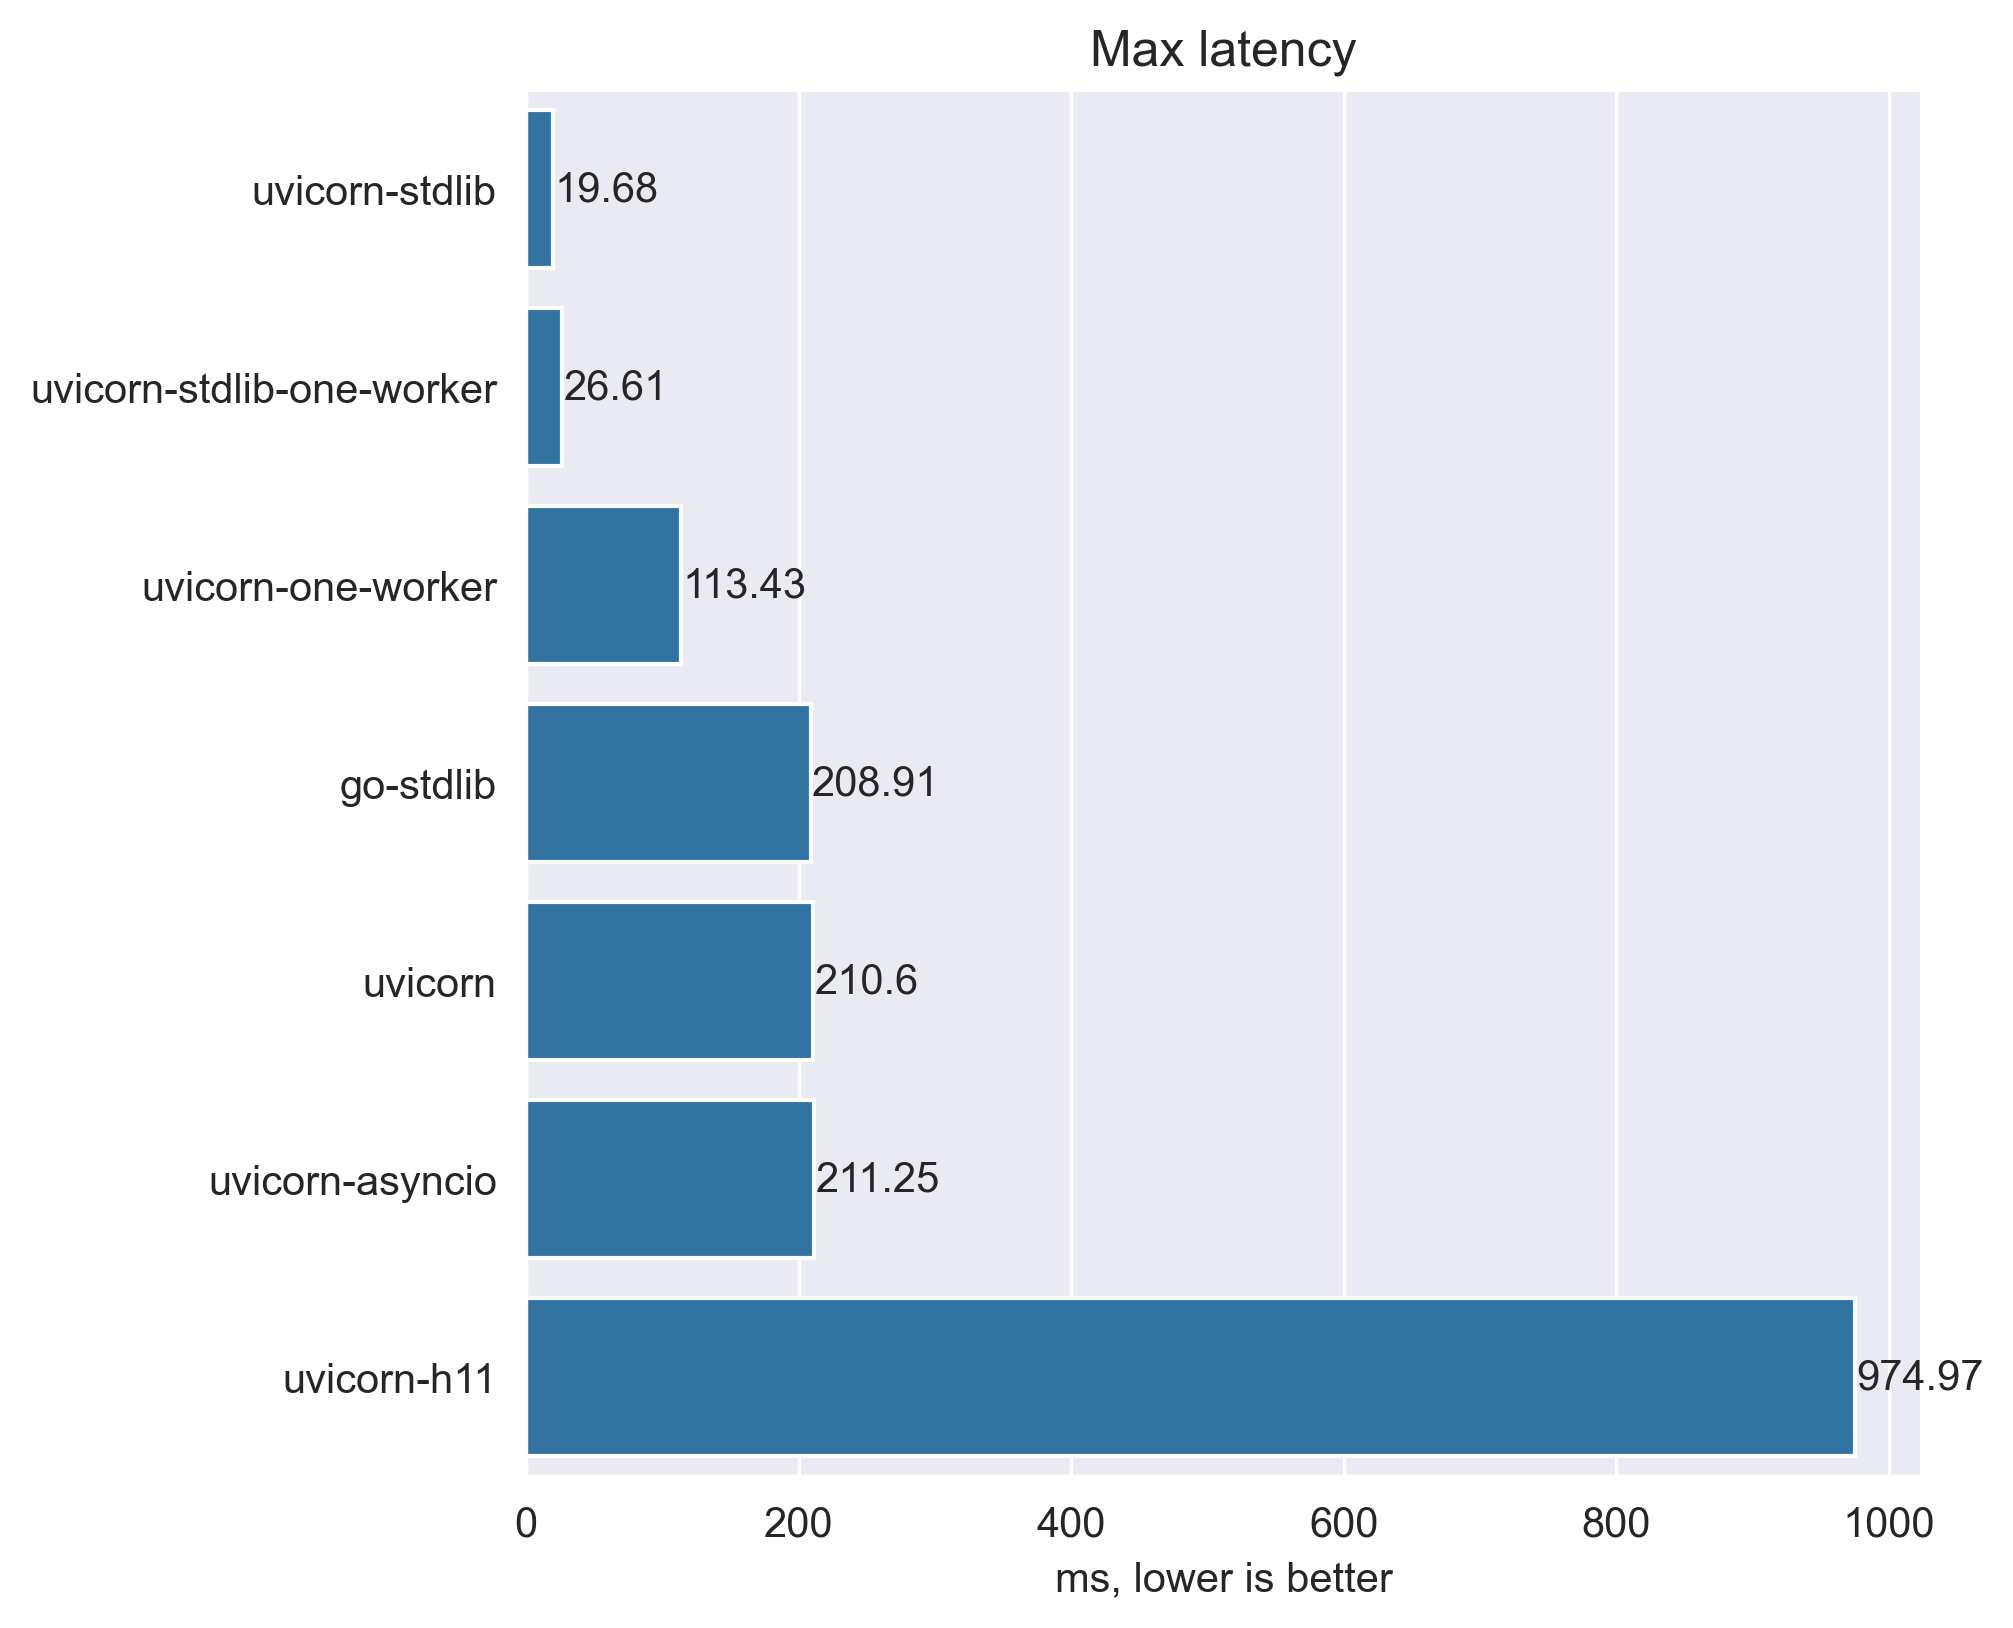
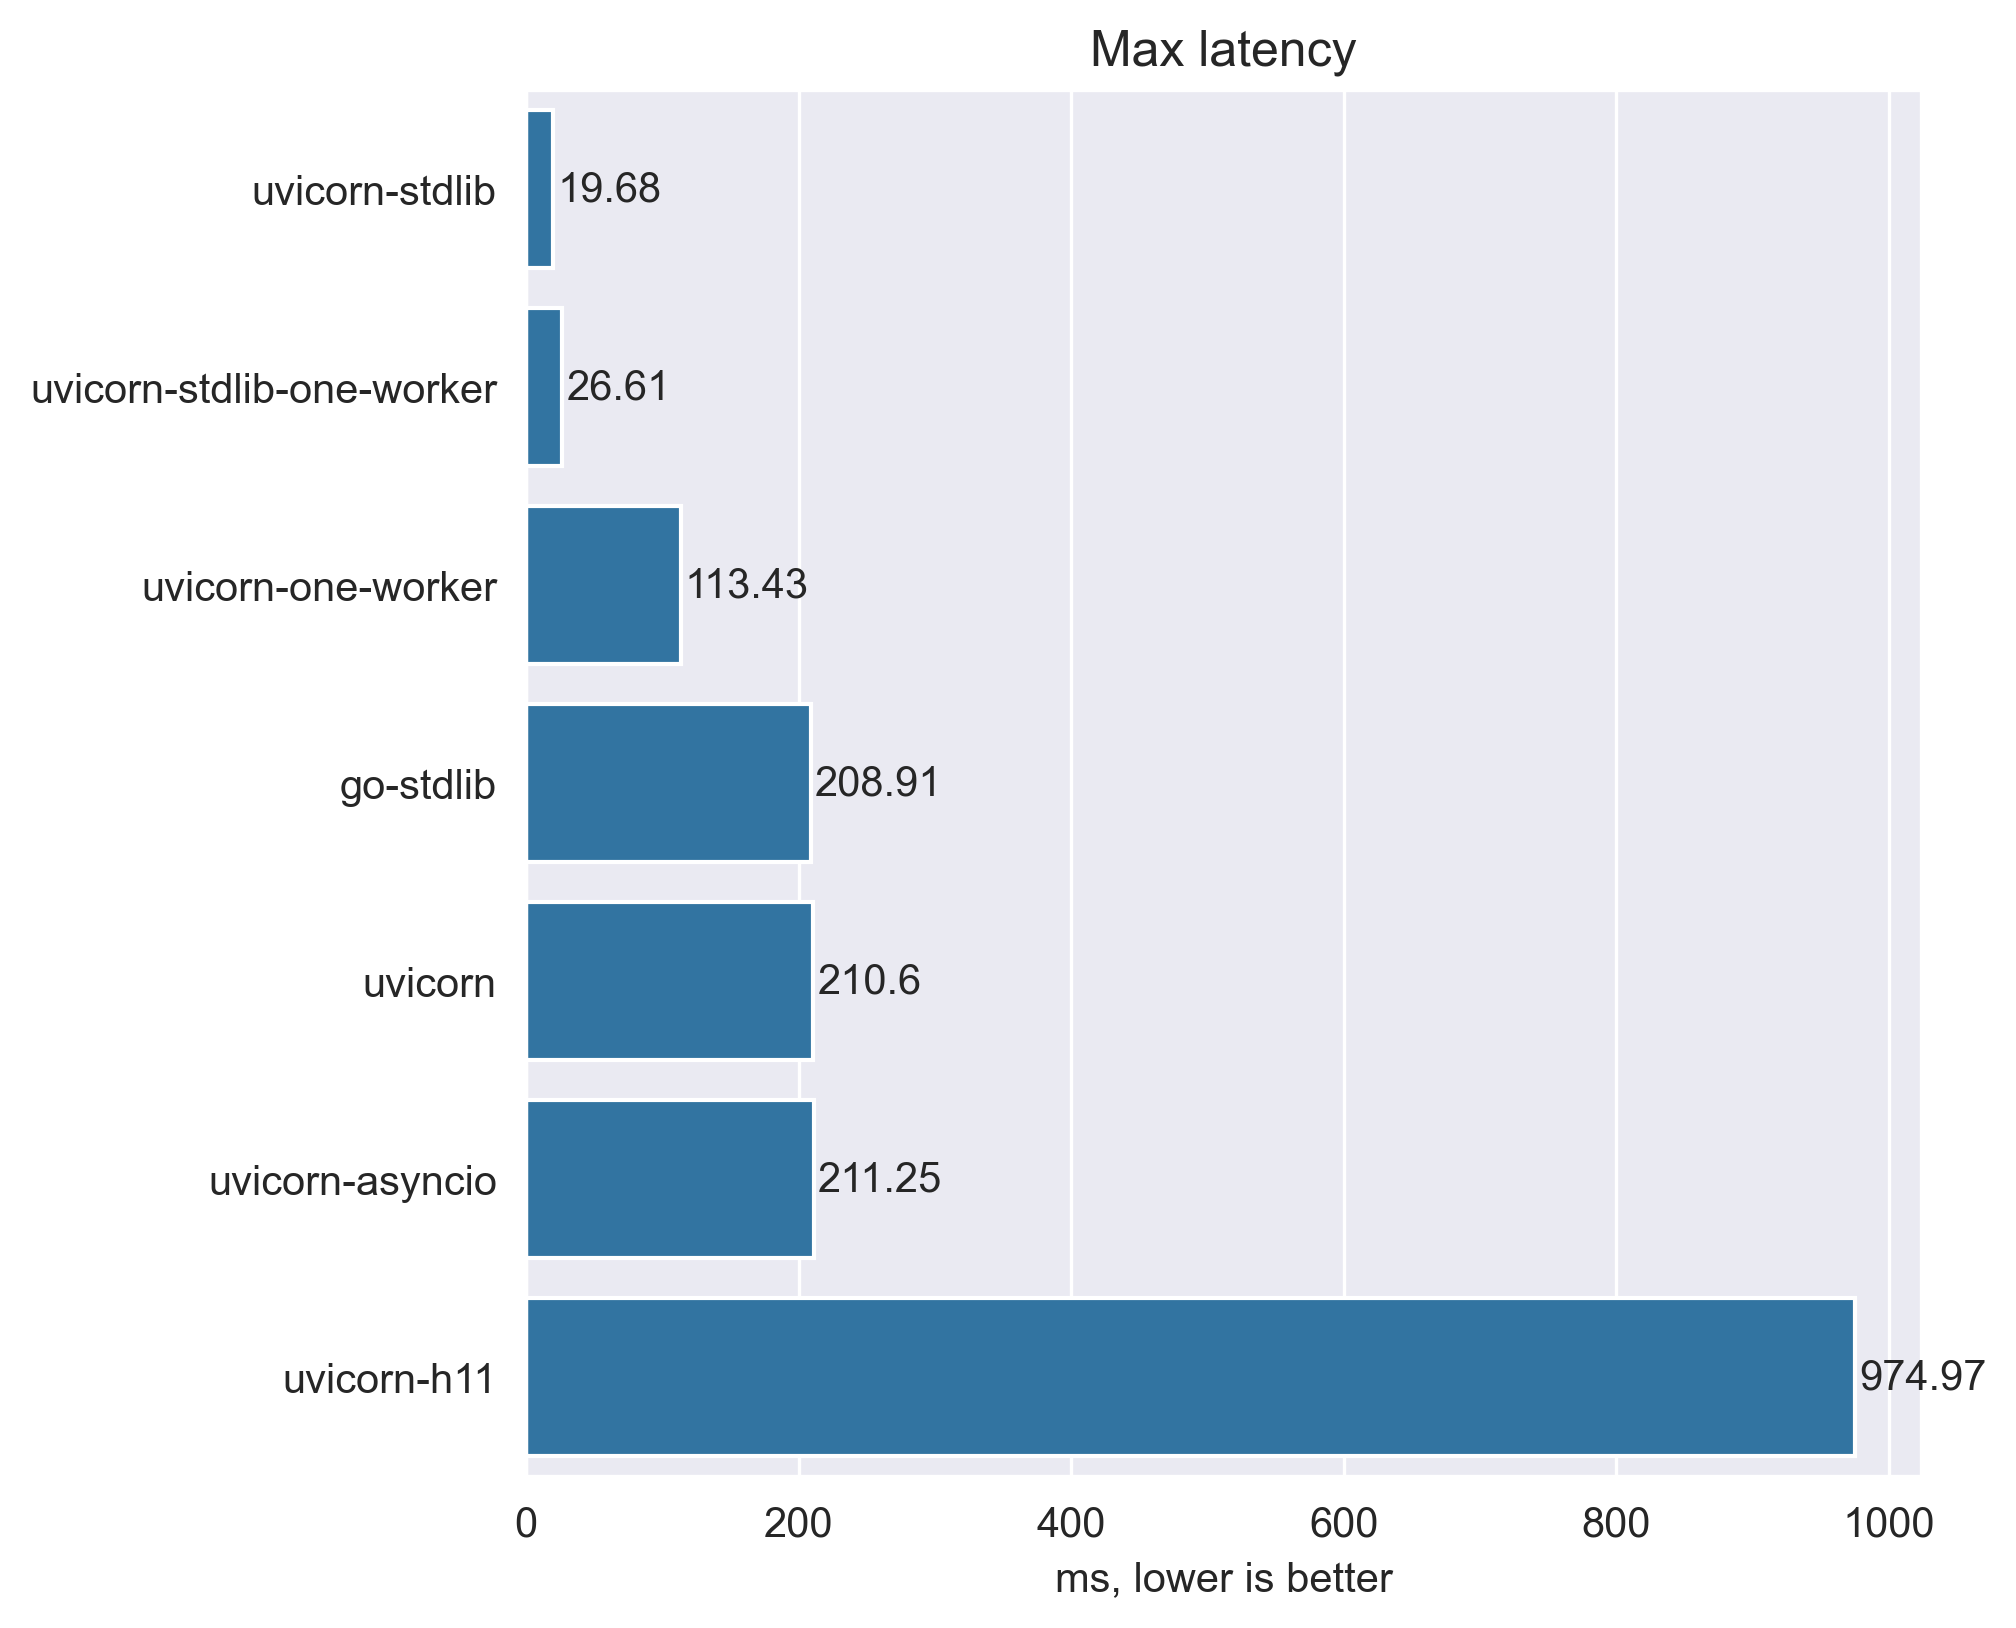
update images

diff --git a/scripts/generate_readme.py b/scripts/generate_readme.py
@@ -126,14 +126,11 @@ def create_chart(names: list[str], values: list[float], title: str, filename: st
     sorted_names, sorted_values = zip(*items)
 
     sns.set_style("darkgrid")
-    # sns.set_context("paper")
 
     plt.figure(figsize=(6, 6))
-    barplot = sns.barplot(x=sorted_values, y=sorted_names, orient='h')
-
-    # Add value labels to each bar
-    for i, v in enumerate(sorted_values):
-        barplot.text(v + 1, i, str(v), va='center')
+    barplot = sns.barplot(x=sorted_values, y=sorted_names, orient="h")
+    barplot.bar_label(barplot.containers[0], padding=1)
+    # barplot.set_xlim(auto=True)
 
     plt.title(title)
     if x_label:
@@ -200,8 +197,8 @@ def _calculate_server_stats(server_stats: list[ServerStats], time_start: datetim
     return {
         "cpu_avg_percent": round(mean(cpu_data)),
         "cpu_median_percent": round(median(cpu_data)),
-        "memory_median_mb": median(memory_data),
-        "memory_max_mb": max(memory_data),
+        "memory_median_mb": round(median(memory_data), 2),
+        "memory_max_mb": round(max(memory_data), 2),
     }
 
 
@@ -218,7 +215,7 @@ def main(args):
     generate_readme(by_test_name, images_by_test_name)
 
 
-if __name__ == '__main__':
+if __name__ == "__main__":
     parser = argparse.ArgumentParser()
     parser.add_argument("--results_file", required=True, type=str, help="File with benchmark results")
     # parser.add_argument("--template_file", required=True, type=str)
